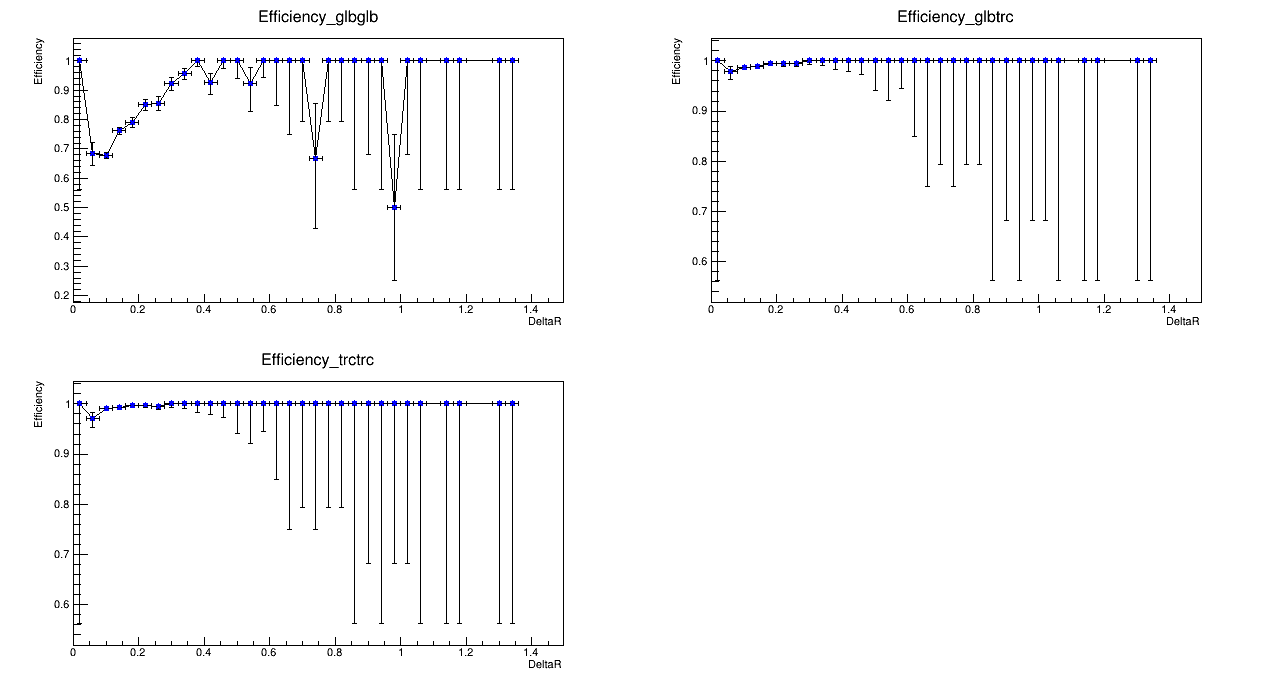
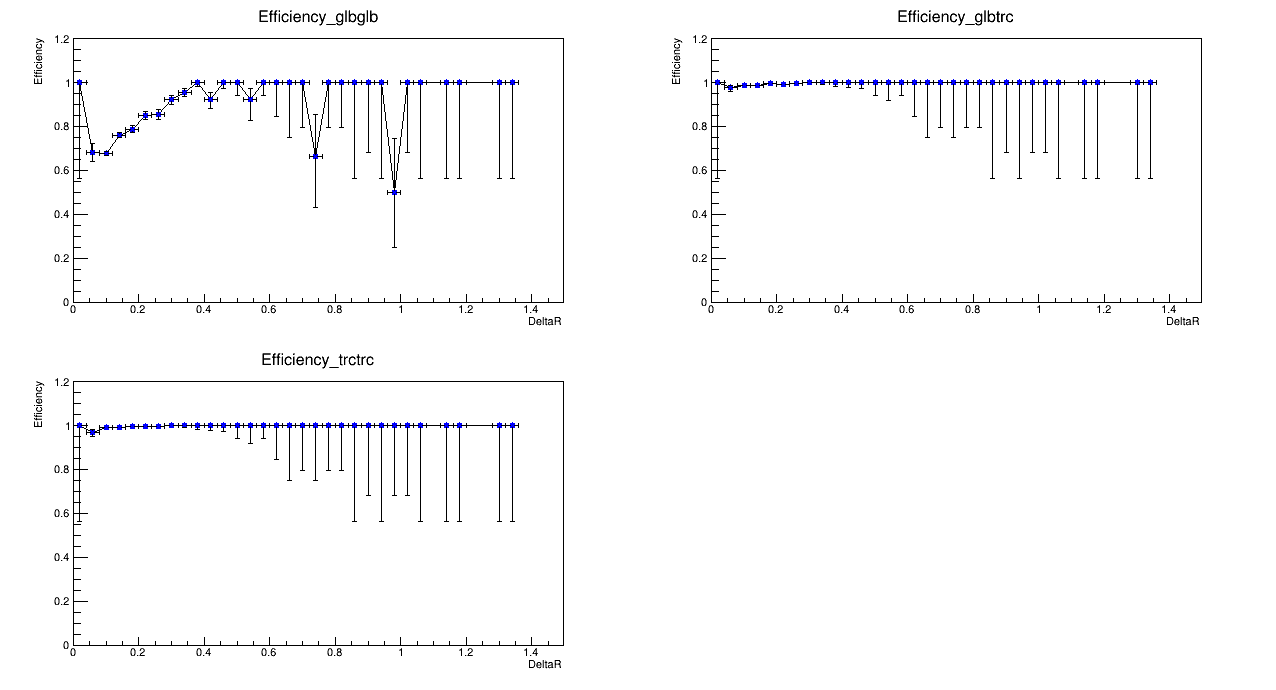
xzh

diff --git a/delpanjTuple_analyzer/13TEV/reconstructEff13TeV.C b/delpanjTuple_analyzer/13TEV/reconstructEff13TeV.C
@@ -199,6 +199,13 @@ void reconstructEff13TeV(){
   h_reconstrcEff_glbglb->GetYaxis()->SetTitle("Efficiency");
   h_reconstrcEff_trctrc->GetYaxis()->SetTitle("Efficiency");
 
+  h_reconstrcEff_glbtrc->SetMinimum(0);
+  h_reconstrcEff_glbglb->SetMinimum(0);
+  h_reconstrcEff_trctrc->SetMinimum(0);
+  h_reconstrcEff_glbtrc->SetMaximum(1.2);
+  h_reconstrcEff_glbglb->SetMaximum(1.2);
+  h_reconstrcEff_trctrc->SetMaximum(1.2);
+
   TCanvas* c = new TCanvas("c", "", 0, 0, 1280, 720);
   c->Divide(2,2);
 
